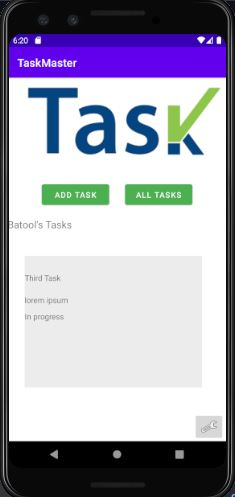
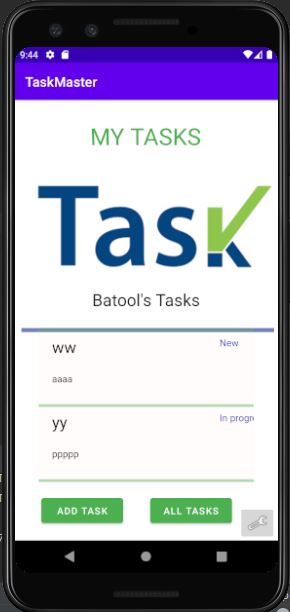
29 done

Changed region(s): [[0.0, 0.0, 1.0, 1.0]]

diff --git a/app/src/main/java/com/example/taskmaster/MainActivity.java b/app/src/main/java/com/example/taskmaster/MainActivity.java
@@ -19,86 +19,45 @@ import java.util.List;
 
 public class MainActivity extends AppCompatActivity implements TaskAdapter.OnTaskListener {
     Button addTask, allTasks;
-//    Button task1, task2, task3;
-    String title1;
-    String title2;
-    String title3;
-    private TextView taskTitle;
-    private TextView taskBody;
-    private TextView taskState;
-//    String title;
-//    String body;
-//    String state;
-    ///stuck
-    DBTask db;
-    DAOsTask daOsTask;
-    ArrayList<Task> tasks ;
-
+    ArrayList<Task> tasks=new ArrayList<>() ;
     @Override
     protected void onCreate(Bundle savedInstanceState) {
         super.onCreate(savedInstanceState);
         setContentView(R.layout.activity_main);
         addTask = findViewById(R.id.button2);
         allTasks = findViewById(R.id.button);
-
-        //create an instance of the database
-        db = Room.databaseBuilder(getApplicationContext(),
-                DBTask.class, "dataBaseTask").allowMainThreadQueries().build();
-        //get an instance of the DAO
-        daOsTask = db.dAOsTask();
-        tasks =(ArrayList<Task>)  daOsTask.getAll();
-
-//        display “{username}’s tasks” above the three task buttons.
+        System.out.println("task here**********************************************************************");
+        System.out.println(DBTask.getInstance(getApplicationContext()).dAOsTask().getAll());
+        tasks=(ArrayList<Task>) DBTask.getInstance(getApplicationContext()).dAOsTask().getAll();
+        System.out.println(tasks);
         TextView userTasks = findViewById(R.id.textView8);
         SharedPreferences sharedPreferences = PreferenceManager.getDefaultSharedPreferences(this);
         userTasks.setText(sharedPreferences.getString("username", "User") + "'s Tasks");
-
-
-        taskTitle = findViewById(R.id.textView11);
-        taskBody = findViewById(R.id.textView12);
-        taskState = findViewById(R.id.textView13);
-//        taskState =findViewById(R.id.state);
-//        tasks.add(new Task("First Task", "lorem ipsum", "Complete"));
-//        tasks.add(new Task("Second Task", "lorem ipsum", "New"));
-//        tasks.add(new Task("Third Task", "lorem ipsum ", "In progress"));
-
         RecyclerView tasksRecyclerView = findViewById(R.id.recyclerView);
         tasksRecyclerView.setAdapter(new TaskAdapter(tasks, this));
        tasksRecyclerView.setLayoutManager(new LinearLayoutManager(this));
-              tasksRecyclerView.setLayoutManager(new LinearLayoutManager(this).setOrientation(RecyclerView.VERTICAL));
-
     }
-
-
     public void addTask(View view) {
         Intent add = new Intent(MainActivity.this, AddTask.class);
         startActivity(add);
     }
-
     public void allTasks(View view) {
         Intent all = new Intent(MainActivity.this, AllTasks.class);
         startActivity(all);
     }
-
     public void setting(View view) {
         Intent setting = new Intent(MainActivity.this, SettingsPage.class);
         startActivity(setting);
     }
-
-    //    Intent details3 = new Intent(MainActivity.this, TaskDetailPage.class);
-//        details3.putExtra("title",title3);
-//
-//    startActivity(details3);
-//
-//}
     @Override
     public void onTaskClick(int position) {
         Intent intent =new Intent(this, TaskDetailPage.class);
+        System.out.println(tasks.get(position).getTitle());
         intent.putExtra("title",tasks.get(position).getTitle());
+        System.out.println(tasks.get(position).getBody());
         intent.putExtra("body",tasks.get(position).getBody());
+        System.out.println(tasks.get(position).getState());
         intent.putExtra("state",tasks.get(position).getState());
-
         startActivity(intent);
     }
-
 }

diff --git a/app/src/main/java/com/example/taskmaster/AddTask.java b/app/src/main/java/com/example/taskmaster/AddTask.java
@@ -17,7 +17,6 @@ import android.widget.Toast;
 import java.util.ArrayList;
 
 public class AddTask extends AppCompatActivity {
-//    TextView submit;
     EditText taskTitle,taskDesc;
     Spinner addState;
     DAOsTask daOsTask;
@@ -26,13 +25,11 @@ public class AddTask extends AppCompatActivity {
     protected void onCreate(Bundle savedInstanceState) {
         super.onCreate(savedInstanceState);
         setContentView(R.layout.activity_add_task);
-//        submit.setVisibility(View.INVISIBLE);
        getSupportActionBar().setDisplayHomeAsUpEnabled(true);
 
        taskTitle= findViewById(R.id.taskTitle);
         taskDesc= findViewById(R.id.taskDesc);
         addState= findViewById(R.id.state);
-//        submit = findViewById(R.id.textView4);
        TextView totalTasks= findViewById(R.id.total);
 
         String[] taskState = new String[]{"New", "In progress", "Complete"};
@@ -40,13 +37,6 @@ public class AddTask extends AppCompatActivity {
                 android.R.layout.simple_spinner_item, taskState);
         tasksAdapter.setDropDownViewResource(android.R.layout.simple_spinner_dropdown_item);
         addState.setAdapter(tasksAdapter);
-//        DBTask.getInstance(getApplicationContext()).dAOsTask();
-//        ArrayList<Task> taskList =   (ArrayList<Task>)  DBTask.getInstance(getApplicationContext()).dAOsTask().getAll();
-//        totalTasks.setText("Total Tasks: "+ taskList.size());
-
-        db= Room.databaseBuilder(getApplicationContext(),
-                DBTask.class, "task_database").allowMainThreadQueries().build();
-        daOsTask=db.dAOsTask();
     }
     @Override
     public boolean onOptionsItemSelected(MenuItem item) {
@@ -56,13 +46,6 @@ public class AddTask extends AppCompatActivity {
     }
 
     public void submitTask(View view) {
-//        submit.setVisibility(View.VISIBLE);
-//
-//        EditText taskTitle= findViewById(R.id.taskTitle);
-//        EditText taskDesc= findViewById(R.id.taskDesc);
-//        state= findViewById(R.id.state);
-////        submit = findViewById(R.id.textView4);
-//        TextView totalTasks= findViewById(R.id.total);
         String title = taskTitle.getText().toString();
         String description = taskDesc.getText().toString();
         String state = addState.getSelectedItem().toString();
@@ -71,7 +54,10 @@ public class AddTask extends AppCompatActivity {
         task.setTitle(title);
         task.setBody(description);
         task.setState(state);
-        daOsTask.insertAll(task);
+        System.out.println("add task : task is here *************************************************");
+        System.out.println(task);
+
+       DBTask.getInstance(getApplicationContext()).dAOsTask().insertAll(task);
 
         Intent intent = new Intent(AddTask.this, MainActivity.class);
         Toast.makeText(AddTask.this, "The Task Has been Added", Toast.LENGTH_SHORT).show();

diff --git a/app/src/main/java/com/example/taskmaster/TaskAdapter.java b/app/src/main/java/com/example/taskmaster/TaskAdapter.java
@@ -26,68 +26,42 @@ public class TaskAdapter extends RecyclerView.Adapter<TaskAdapter.TaskViewHolder
 
     public static class TaskViewHolder extends RecyclerView.ViewHolder implements View.OnClickListener {
         public Task task;
-        //    public View taskView;
         public TextView taskTitle;
         public TextView taskBody;
         public TextView taskState;
         OnTaskListener onTaskListener;
-
         public TaskViewHolder(View taskView, OnTaskListener onTaskListener) {
             super(taskView);
-//        this.taskTitle=taskTitle;
             taskTitle = taskView.findViewById(R.id.textView11);
             taskBody = taskView.findViewById(R.id.textView12);
             taskState = taskView.findViewById(R.id.textView13);
             this.onTaskListener = onTaskListener;
             taskView.setOnClickListener(this);
         }
-
         @Override
         public void onClick(View v) {
             onTaskListener.onTaskClick(getAdapterPosition());
         }
-
-//        @Override
-//        public void onClick(View view) {
-//            int taskPosition = RecyclerView.getChildLayoutPosition(view);
-////            String item = mList.get(itemPosition);
-////            Toast.makeText(mContext, item, Toast.LENGTH_LONG).show();
-//            int taskPosition=getAdapterPosition();
-//            Intent intent;
-//        }
     }
-
     public interface OnTaskListener {
         void onTaskClick(int position);
     }
-
     @NonNull
     @Override
     public TaskAdapter.TaskViewHolder onCreateViewHolder(@NonNull ViewGroup parent, int viewType) {
         View view = LayoutInflater.from(parent.getContext()).inflate(R.layout.fragment_task, parent, false);
         TaskViewHolder viewHolder = new TaskViewHolder(view,mOnTaskListener);
-        //action of the listener
-//public void taskListener{
-//
-//        }
-
-
         return new TaskViewHolder(view, mOnTaskListener);
-
-
     }
-
     @Override
     public void onBindViewHolder(@NonNull TaskAdapter.TaskViewHolder holder, int position) {
         holder.task = tasks.get(position);
-
         TextView taskTitle = holder.taskTitle.findViewById(R.id.textView11);
         TextView taskBody = holder.taskBody.findViewById(R.id.textView12);
         TextView taskState = holder.taskState.findViewById(R.id.textView13);
         taskTitle.setText(holder.task.getTitle());
         taskBody.setText(holder.task.getBody());
         taskState.setText(holder.task.getState());
-
     }
 
     @Override

diff --git a/app/src/main/java/com/example/taskmaster/TaskDetailPage.java b/app/src/main/java/com/example/taskmaster/TaskDetailPage.java
@@ -15,26 +15,20 @@ public class TaskDetailPage extends AppCompatActivity {
     protected void onCreate(Bundle savedInstanceState) {
         super.onCreate(savedInstanceState);
         setContentView(R.layout.activity_task_detail_page);
-
         TextView task_heading = findViewById(R.id.textView6);
         TextView body = findViewById(R.id.textView7);
         TextView state = findViewById(R.id.textView8);
-
         SharedPreferences sharedPreferences = PreferenceManager.getDefaultSharedPreferences(this);
         String title = getIntent().getStringExtra("title");
         String body1 = getIntent().getStringExtra("body");
         String state1 = getIntent().getStringExtra("state");
         task_heading.setText(sharedPreferences.getString("username", "User") + "'s " + title + " Detail");
-
-        if(title==null){
-        task_heading.setText(sharedPreferences.getString("username", "User") + "'s " + " Detail");
         body.setText(body1);
-            body.setText(state1);
-
+        if (title == null) {
+            task_heading.setText(sharedPreferences.getString("username", "User") + "'s " + " Detail");
         }
         getSupportActionBar().setDisplayHomeAsUpEnabled(true);
     }
-
     @Override
     public boolean onOptionsItemSelected(MenuItem item) {
         Intent back = new Intent(getApplicationContext(), MainActivity.class);

diff --git a/app/src/main/java/com/example/taskmaster/Task.java b/app/src/main/java/com/example/taskmaster/Task.java
@@ -16,12 +16,10 @@ public class Task {
     private String state;
 public Task(){}
     public Task(String title, String body, String state) {
-
         this.title = title;
         this.body = body;
         this.state = state;
     }
-
     public String getState() {
         return state;
     }
@@ -44,5 +42,15 @@ public Task(){}
 
     public void setBody(String body) {
         this.body = body;
+    }
+
+    @Override
+    public String toString() {
+        return "Task{" +
+                "taskId=" + taskId +
+                ", title='" + title + '\'' +
+                ", body='" + body + '\'' +
+                ", state='" + state + '\'' +
+                '}';
     }
 }

diff --git a/app/src/main/java/com/example/taskmaster/DBTask.java b/app/src/main/java/com/example/taskmaster/DBTask.java
@@ -13,7 +13,7 @@ public abstract class DBTask extends RoomDatabase {
     private static volatile DBTask dbTask;
     public static synchronized DBTask getInstance(Context context){
         if(dbTask==null){
-            DBTask db = Room.databaseBuilder(context.getApplicationContext(),DBTask.class,"dataBaseTask").allowMainThreadQueries().build();
+           dbTask = Room.databaseBuilder(context.getApplicationContext(),DBTask.class,"dataBaseTask").allowMainThreadQueries().build();
         }
         return dbTask;
 

diff --git a/app/src/main/java/com/example/taskmaster/DAOsTask.java b/app/src/main/java/com/example/taskmaster/DAOsTask.java
@@ -12,17 +12,6 @@ import java.util.List;
 public interface DAOsTask {
     @Query("SELECT * FROM task")
     List<Task> getAll();
-
-//    @Query("SELECT * FROM task WHERE taskId =:taskId")
-//    Task findById(int userIds);
-
     @Insert
-    void insertAll(Task task);
-    //    @Query("SELECT * FROM task WHERE title LIKE :first AND " +
-//            "body LIKE :last LIMIT 1")
-//
-//
-//    @Delete
-//    void delete(Task user);
-
+    void insertAll(Task... tasks);
 }

diff --git a/README.md b/README.md
@@ -23,7 +23,5 @@ create an `all tasks activity` should just be an image with a back button .
 # Lab: 29 - Room
 ### Wireframes
 # ![main](screenshots/main28.JPG)
-# ![add task](screenshots/add.JPG)
-# ![all tasks](screenshots/all.JPG)
-# ![setting](screenshots/setting.JPG)
-# ![details](screenshots/details.JPG)
+# ![add task](screenshots/add28.JPG)
+# ![details](screenshots/details28.JPG)
